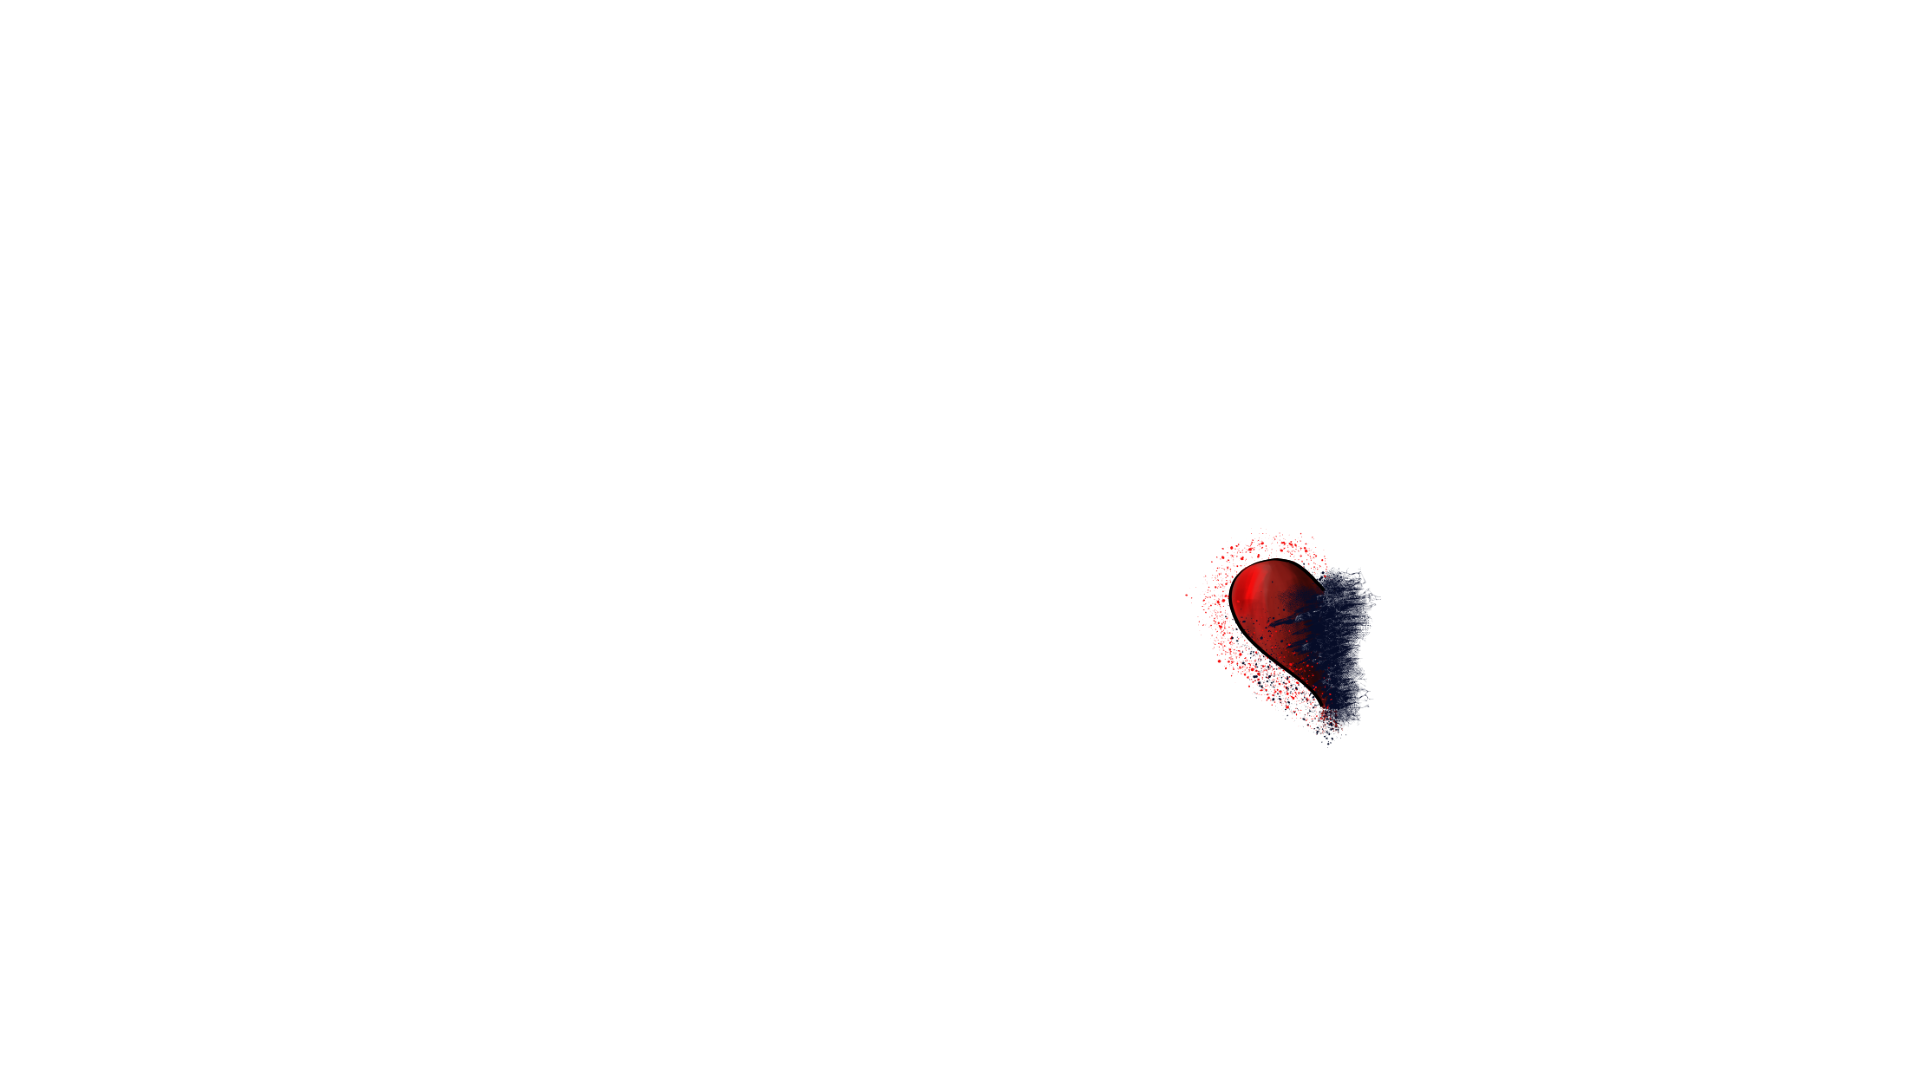
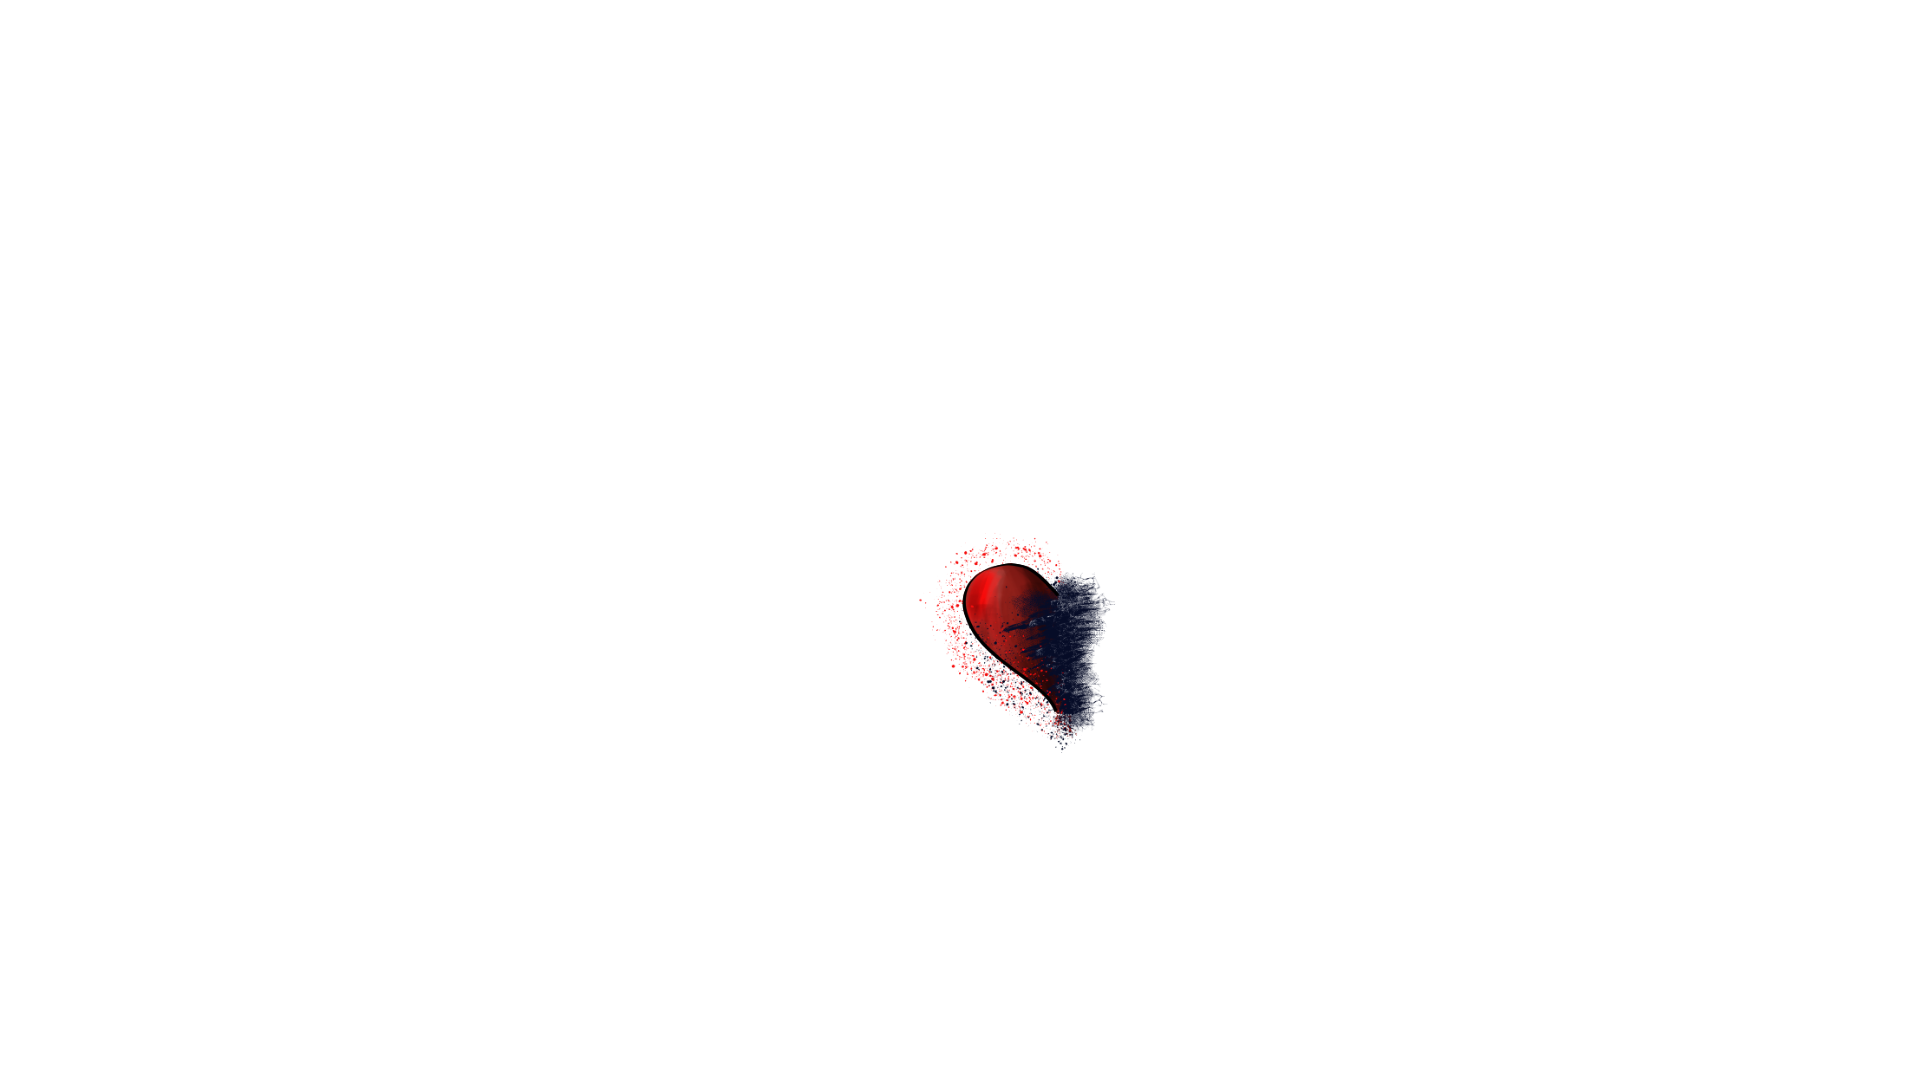
Now the face swaps between maias face and the body's depending on whos active at the time. Also the sprite of the half heart was fixed

Changed region(s): [[0.4688, 0.4889, 0.5938, 0.7028], [0.625, 0.4889, 0.7188, 0.6722]]

diff --git a/Obligatorio2/ObligatorioProduccion/Assets/Scripts/HeartsUI.cs b/Obligatorio2/ObligatorioProduccion/Assets/Scripts/HeartsUI.cs
@@ -67,7 +67,7 @@ public class HeartsUI : MonoBehaviour
         transform.DetachChildren();
         var attachedBodyHealth = 0;
 
-        if (GameObject.FindGameObjectWithTag("Body").GetComponent<BodyController>().canBeDamaged)
+        if (GameObject.FindGameObjectWithTag("Body").GetComponent<BodyController>().isInputEnabled)
         {
             AddFaceToUI(bodyFaceSprite);
             attachedBodyHealth = bodyHealthManager.currentHealth;
@@ -75,6 +75,10 @@ public class HeartsUI : MonoBehaviour
         else
         {
             AddFaceToUI(maiaFaceSprite);
+            if (GameObject.FindGameObjectWithTag("Body").GetComponent<BodyController>().canBeDamaged)
+            {
+                attachedBodyHealth = bodyHealthManager.currentHealth;
+            }
         }
 
         var completeHeartCount = attachedBodyHealth / 10;
